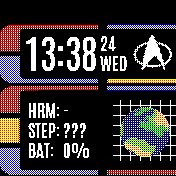
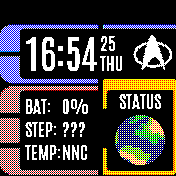
Store alarm in settings

diff --git a/apps/lcars/lcars.app.js b/apps/lcars/lcars.app.js
@@ -1,32 +1,42 @@
+const filename = "lcars.setting.json";
+const Storage = require("Storage");
+let settings = Storage.readJSON(filename,1) || {
+  alarm: -1,
+};
+
 /*
  * Requirements and globals
  */
 const locale = require('locale');
-var alarm = -1;
-var hrmValue = "-";
 
-var backgroundImage =  {
+var backgroundImage = {
   width : 176, height : 151, bpp : 3,
   transparent : 2,
[2 lines of base64/hex data omitted]
 }
 
-var iconPlanet = {
+var iconEarth = {
   width : 50, height : 50, bpp : 3,
   transparent : 5,
[1 lines of base64/hex data omitted]
+}
+
+var iconSaturn = {
+  width : 50, height : 50, bpp : 3,
+  transparent : 1,
[1 lines of base64/hex data omitted]
+}
+
+var iconUranus = {
+  width : 50, height : 50, bpp : 3,
+  transparent : 2,
[1 lines of base64/hex data omitted]
 }
 
 var iconGps = {
   width : 50, height : 50, bpp : 3,
   transparent : 2,
[1 lines of base64/hex data omitted]
-}
-
-var iconCompass = {
-  width : 50, height : 50, bpp : 3,
-  transparent : 2,
[1 lines of base64/hex data omitted]
 }
 
 var iconAlarm = {
@@ -54,11 +64,6 @@ Graphics.prototype.setFontAntonioSmall = function(scale) {
[1 lines of base64/hex data omitted]
 }
 
-Graphics.prototype.setFontAntonioMedium = function(scale) {
-  // Actual height 20 (19 - 0)
[1 lines of base64/hex data omitted]
-}
-
 Graphics.prototype.setFontAntonioLarge = function(scale) {
   // Actual height 34 (34 - 1)
[1 lines of base64/hex data omitted]
@@ -72,46 +77,43 @@ function queueDraw() {
   if (drawTimeout) clearTimeout(drawTimeout);
   drawTimeout = setTimeout(function() {
     drawTimeout = undefined;
-    draw(true);
+    draw();
   }, 60000 - (Date.now() % 60000));
 }
 
 
-function draw(queue){
+function draw(){
+
+  // First handle alarm to show this correctly afterwards
+  handleAlarm();
+
+  // Next draw the watch face
   g.reset();
   g.clearRect(0, 24, g.getWidth(), g.getHeight());
 
   // Draw background image
   g.drawImage(backgroundImage, 0, 24);
 
-  // Draw raster
-  // g.drawLine(112, 100, 112, 165);
-  for(var x=1; x<7; x++){
-    g.drawLine(110+x*10, 100, 110+x*10, 160);
-  }
-
-  for(var y=0; y<6; y++){
-    g.drawLine(113, 105+y*10, 175, 105+y*10);
-  }
-
   // Draw symbol
   var bat = E.getBattery();
+  var timeInMinutes = getCurrentTimeInMinutes();
 
   var iconImg =
-    alarm >= 0 ? iconAlarm :
+      isAlarmEnabled() ? iconAlarm :
       Bangle.isCharging() ? iconCharging :
       bat < 30 ? iconNoBattery :
       Bangle.isGPSOn() ? iconGps :
-      Bangle.isCompassOn() ? iconCompass :
-      iconPlanet;
-  g.drawImage(iconImg, 120, 107);
+      timeInMinutes % 3 == 0 ? iconUranus :
+      timeInMinutes % 3 == 1 ? iconSaturn :
+      iconEarth;
+  g.drawImage(iconImg, 115, 115);
 
   // Alarm within symbol
+  g.setFontAlign(0,0,0);
   g.setFontAntonioSmall();
-  if(alarm > 0){
-    g.setFontAlign(0,0,0);
-    g.drawString(alarm, 120+25, 107+25);
-    g.setFontAlign(-1,-1,0);
+  g.drawString("STATUS", 115+25, 102);
+  if(isAlarmEnabled() > 0){
+    g.drawString(getAlarmMinutes(), 115+25, 115+25);
   }
 
   // Write time
@@ -130,25 +132,22 @@ function draw(queue){
   g.drawString(day, 100, 35);
   g.drawString(dayName, 100, 55);
 
-  // HRM
-  g.setFontAntonioMedium();
-  g.setFontAlign(-1,-1,0);
-  g.drawString("HRM:", 25, 98);
-  g.drawString(hrmValue, 64, 98);
+  // Draw battery
+  g.drawString("BAT:", 25, 98);
+  g.drawString(bat+ "%", 62, 98);
 
   // Draw steps
   var steps = getSteps();
   g.drawString("STEP:", 25, 121);
-  g.drawString(steps, 64, 121);
+  g.drawString(steps, 62, 121);
 
-  // Draw battery
-  g.drawString("BAT:", 25, 144);
-  g.drawString(bat+ "%", 64, 144);
+  // Temperature
+  g.setFontAlign(-1,-1,0);
+  g.drawString("TEMP:", 25, 144);
+  g.drawString(Math.floor(E.getTemperature()) + "C", 62, 144);
 
   // Queue draw in one minute
-  if(queue){
-    queueDraw();
-  }
+  queueDraw();
 }
 
 /*
@@ -169,49 +168,45 @@ function stepsWidget() {
   return undefined;
 }
 
-/*
- * HRM
- */
-Bangle.on('HRM',function(hrm) {
-  hrmValue = hrm.bpm;
-});
 
 /*
  * Handle alarm
  */
-var alarmTimeout;
-function queueAlarm() {
-  if (alarmTimeout) clearTimeout(alarmTimeout);
-  alarmTimeout = setTimeout(function() {
-    alarmTimeout = undefined;
-    handleAlarm();
-  }, 60000 - (Date.now() % 60000));
+function getCurrentTimeInMinutes(){
+  return Math.floor(Date.now() / (1000*60));
+}
+
+function isAlarmEnabled(){
+ return settings.alarm > 0;
+}
+
+function getAlarmMinutes(){
+  var currentTime = getCurrentTimeInMinutes();
+  return settings.alarm - currentTime;
 }
 
 function handleAlarm(){
+  if(!isAlarmEnabled()){
+    return;
+  }
 
-    // Check each minute
-    if(alarm > 0){
-      alarm--;
-      queueAlarm();
-    }
+  if(getAlarmMinutes() > 0){
+    return;
+  }
 
-    // After n minutes, inform the user
-    if(alarm == 0){
-      alarm = -1;
+  // Alarm
+  var t = 300;
+  Bangle.buzz(t, 1)
+  .then(() => new Promise(resolve => setTimeout(resolve, t)))
+  .then(() => Bangle.buzz(t, 1))
+  .then(() => new Promise(resolve => setTimeout(resolve, t)))
+  .then(() => Bangle.buzz(t, 1))
+  .then(() => new Promise(resolve => setTimeout(resolve, t)))
+  .then(() => Bangle.buzz(t, 1));
 
-      var t = 300;
-      Bangle.buzz(t, 1)
-      .then(() => new Promise(resolve => setTimeout(resolve, t)))
-      .then(() => Bangle.buzz(t, 1))
-      .then(() => new Promise(resolve => setTimeout(resolve, t)))
-      .then(() => Bangle.buzz(t, 1))
-      .then(() => new Promise(resolve => setTimeout(resolve, t)))
-      .then(() => Bangle.buzz(t, 1));
-    }
-
-    // Update UI
-    draw(false);
+  // Update alarm state to disabled
+  settings.alarm = -1;
+  Storage.writeJSON(filename, settings);
 }
 
 
@@ -221,19 +216,27 @@ function handleAlarm(){
 Bangle.on('swipe',function(dir) {
   // Increase alarm
   if(dir == -1){
-    alarm = alarm < 0 ? 0 : alarm;
-    alarm += 5;
-    queueAlarm();
+    if(isAlarmEnabled()){
+      settings.alarm += 5;
+    } else {
+      settings.alarm = getCurrentTimeInMinutes() + 5;
+    }
   }
 
   // Decrease alarm
   if(dir == +1){
-    alarm -= 5;
-    alarm = alarm <= 0 ? -1 : alarm;
+    if(isAlarmEnabled() && (settings.alarm-5 > getCurrentTimeInMinutes())){
+      settings.alarm -= 5;
+    } else {
+      settings.alarm = -1;
+    }
   }
 
   // Update UI
-  draw(false);
+  draw();
+
+  // Update alarm state
+  Storage.writeJSON(filename, settings);
 });
 
 
@@ -242,7 +245,7 @@ Bangle.on('swipe',function(dir) {
  */
 Bangle.on('lcdPower',on=>{
   if (on) {
-    draw(true); // draw immediately, queue redraw
+    draw(); // draw immediately, queue redraw
   } else { // stop draw timer
     if (drawTimeout) clearTimeout(drawTimeout);
     drawTimeout = undefined;
@@ -257,7 +260,7 @@ Bangle.loadWidgets();
 
 // Clear the screen once, at startup and draw clock
 g.setTheme({bg:"#000",fg:"#fff",dark:true}).clear();
-draw(true);
+draw();
 
 // After drawing the watch face, we can draw the widgets
 Bangle.drawWidgets();
